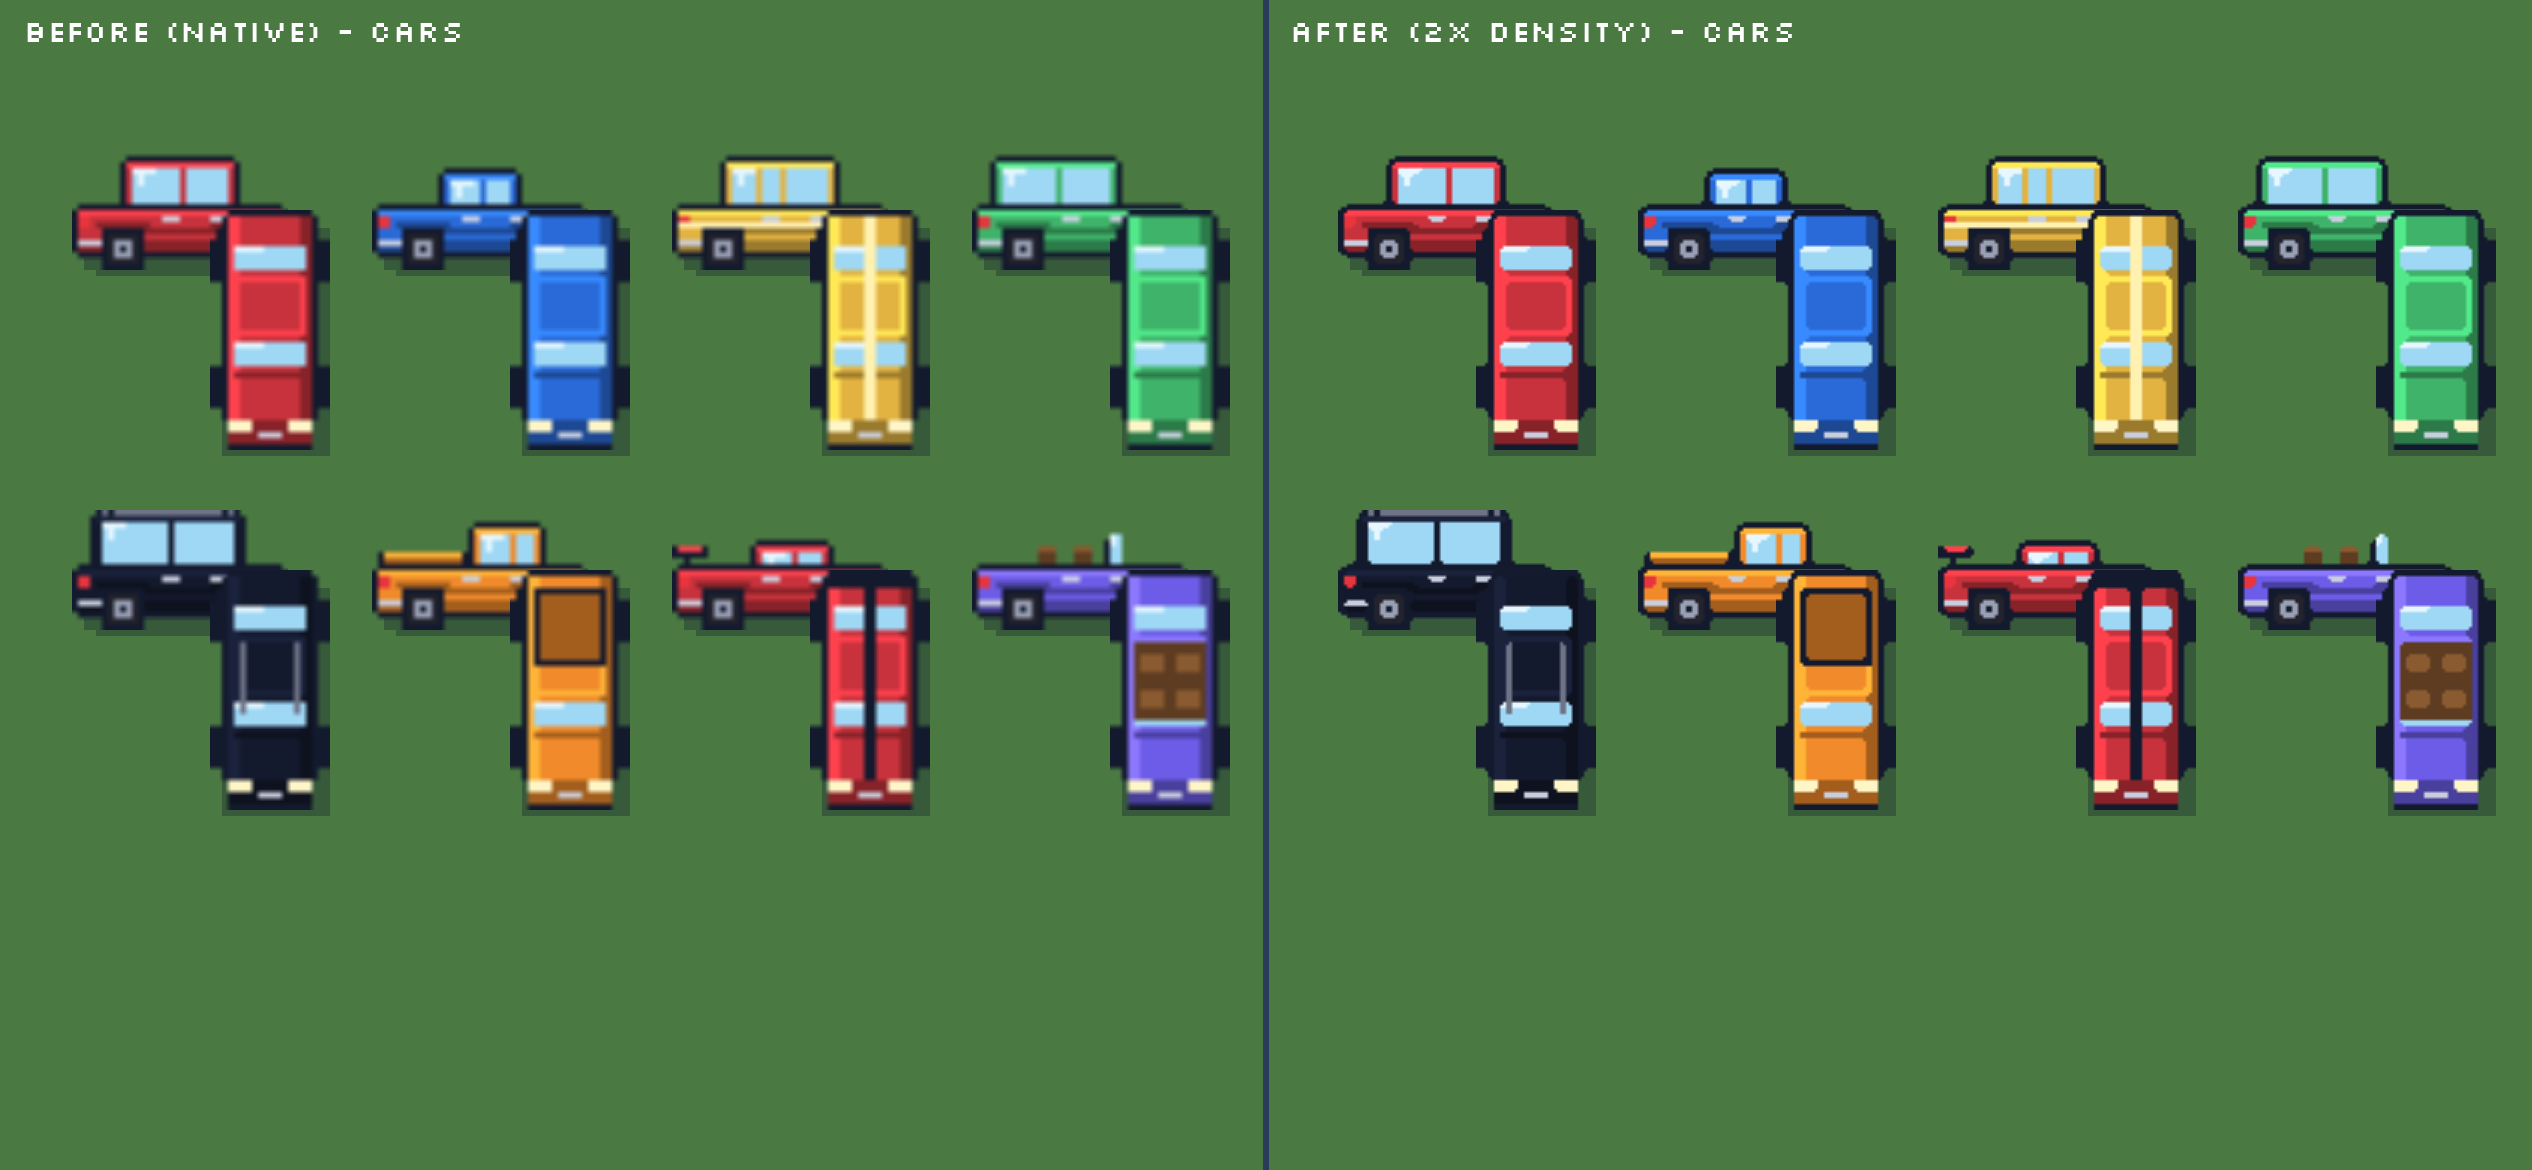
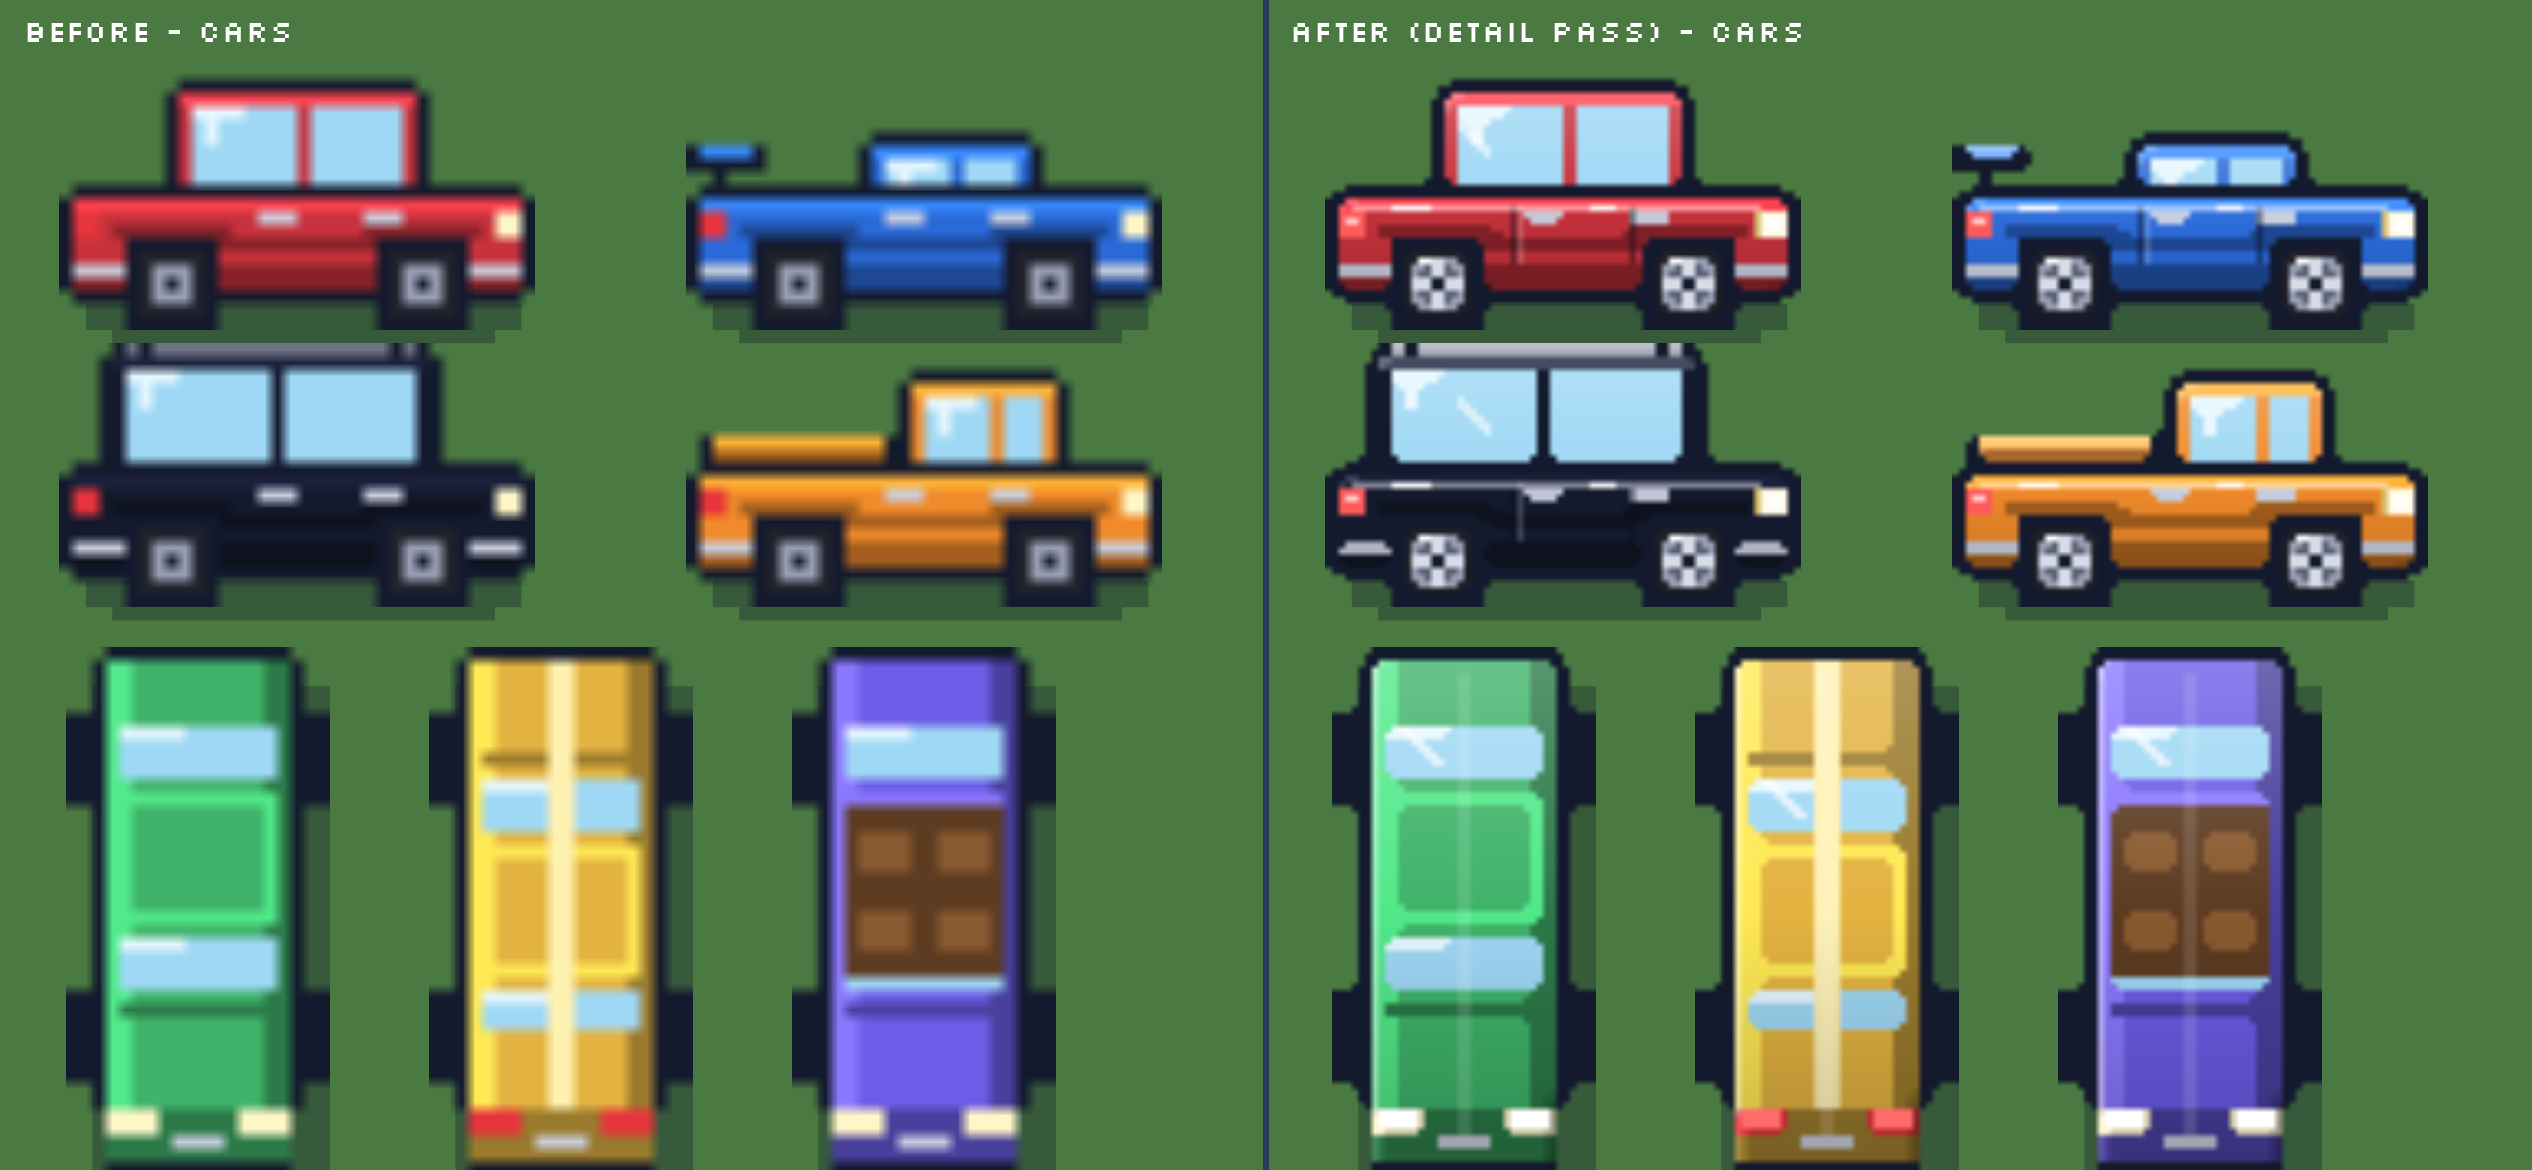
Detail pass (3/4): 8 car models x 3 views - gloss shading, door seams, spoked chrome rims, lit lamp lenses, specular + glass streaks; 6 glow underlights get a radial underglow pool + neon strip

diff --git a/src/cars.js b/src/cars.js
@@ -2,6 +2,27 @@
 // Views: 'side' (east/west travel, flipped for west), 'front' (driving toward camera = south), 'back' (driving away = north).
 import { TILE, ROADS, AVENUE } from './world.js';
 import { hires } from './hires.js';
+import { shadeSprite } from './detail.js';
+// Detail pass at 2x (coords below are hi-res px = 2 x native): gloss shading, door panel seams, spoked chrome rims,
+// lit head/tail lamp lenses, chrome specular, glass reflections. Same palette family; cached with the sprite.
+function carDetail(cv, view, kind) { if (globalThis.__noDetail || !cv.k) return cv;
+  shadeSprite(cv, { r: 2, light: 0.32, dark: 0.22, grad: 0.22, skipInk: 30 }); const c = cv.getContext('2d'), Q = (x, y, w, h, col) => { c.fillStyle = col; c.fillRect(x, y, w, h); };
+  c.save(); c.globalCompositeOperation = 'source-atop';
+  if (view === 'side') {
+    if (kind !== 'pickup') { Q(28, 21, 1, 9, 'rgba(10,14,30,.45)'); Q(46, 21, 1, 9, 'rgba(10,14,30,.45)'); Q(29, 21, 1, 9, 'rgba(255,255,255,.18)'); } // door seams
+    Q(4, 21, 62, 1, 'rgba(255,255,255,.45)'); Q(10, 21, 6, 1, 'rgba(255,255,255,.9)'); Q(40, 21, 4, 1, 'rgba(255,255,255,.85)'); // gloss specular
+    Q(66, 22, 4, 4, '#fffbe8'); Q(67, 23, 2, 2, '#ffffff'); Q(65, 22, 1, 4, '#d8c070'); // headlamp lens
+    Q(2, 22, 4, 4, '#ff5a5a'); Q(3, 23, 2, 1, '#ffd0d0'); // tail lens
+    for (const wx of [5, 24]) { const cx = 2 * wx + 7, cy = 33; // spoked rims
+      Q(cx - 4, cy - 4, 8, 8, '#22232c'); Q(cx - 3, cy - 4, 6, 8, '#9aa0b4'); Q(cx - 4, cy - 3, 8, 6, '#9aa0b4'); Q(cx - 2, cy - 3, 4, 6, '#5a6074'); Q(cx - 3, cy - 2, 6, 4, '#5a6074');
+      Q(cx - 1, cy - 4, 2, 8, '#d8dce8'); Q(cx - 4, cy - 1, 8, 2, '#d8dce8'); Q(cx - 1, cy - 1, 2, 2, '#141a2e'); Q(cx - 3, cy - 4, 2, 1, '#ffffff'); }
+    c.globalAlpha = 0.6; c.fillStyle = '#ffffff'; for (let i = 0; i < 5; i++) c.fillRect(20 + i, 8 + i, 1, 2); c.globalAlpha = 1; // glass streak
+  } else {
+    Q(19, 4, 2, 70, 'rgba(255,255,255,.12)'); Q(6, 3, 1, 68, 'rgba(255,255,255,.4)'); // centre line + side gloss
+    c.globalAlpha = 0.7; c.fillStyle = '#ffffff'; for (let i = 0; i < 6; i++) c.fillRect(10 + i, (view === 'front' ? 12 : 20) + i, 2, 1); c.globalAlpha = 1;
+    const ly = 70; if (view === 'front') { Q(7, ly, 6, 3, '#ffffff'); Q(27, ly, 6, 3, '#ffffff'); } else { Q(7, ly, 6, 3, '#ff6a6a'); Q(27, ly, 6, 3, '#ff6a6a'); }
+  }
+  c.restore(); return cv; }
 export const CAR_LEN = 72, CAR_W = 40, U = 2, LANE = 48; // world px; U = one native pixel
 export const LANES = { // 3-tile roads = two 48px lanes, right-hand traffic
   rows: ROADS, avenue: AVENUE, // horizontal roads occupy rows r..r+2; avenue occupies cols 31-33
@@ -54,7 +75,7 @@ function top(col, kind, view) { // 20 x 40 native (16 body + wheel nubs), front 
   return cv;
 }
 export function carSprite(col, view = 'side', kind = 'sedan') {
-  const k = col + view + kind; let s = cache.get(k); if (!s) { s = hires(view === 'side' ? side(col, kind) : top(col, kind, view)); cache.set(k, s); } return s;
+  const k = col + view + kind; let s = cache.get(k); if (!s) { s = carDetail(hires(view === 'side' ? side(col, kind) : top(col, kind, view)), view, kind); cache.set(k, s); } return s;
 }
 // Draw a car whose ground contact is (x, base): x = centre, base = bottom of wheels (side) / bottom of bumper (front/back).
 export function drawCar(c, x, base, { col = '#c8323c', dir = 'east', kind = 'sedan', alpha = 1, glow = null } = {}) {
@@ -64,6 +85,9 @@ export function drawCar(c, x, base, { col = '#c8323c', dir = 'east', kind = 'sed
   if (view === 'side') { c.fillRect(X + 4, Math.round(base) - 4, w - 6, 4); c.fillRect(X + 8, Math.round(base), w - 14, 2); }
   else { c.fillRect(X + 4, Y + 6, w - 4, h - 4); }
   if (dir === 'west') { c.translate(X + w, Y); c.scale(-1, 1); c.drawImage(spr, 0, 0, w, h); } else c.drawImage(spr, X, Y, w, h);
-  if (glow) { c.globalAlpha = 0.45; c.fillStyle = glow; c.fillRect(X - 4, Math.round(base) - 6, w + 8, 8); c.fillRect(X + 4, Y - 4, w - 8, 4); c.globalAlpha = 1; }
+  if (glow && globalThis.__noDetail) { c.globalAlpha = 0.45; c.fillStyle = glow; c.fillRect(X - 4, Math.round(base) - 6, w + 8, 8); c.fillRect(X + 4, Y - 4, w - 8, 4); c.globalAlpha = 1; }
+  else if (glow) { c.save(); c.globalCompositeOperation = 'lighter'; const gx = X + w / 2, gy = Math.round(base) - 2, g = c.createRadialGradient(gx, gy, 2, gx, gy, w * 0.62);
+    g.addColorStop(0, glow); g.addColorStop(0.5, glow + '66'); g.addColorStop(1, glow + '00'); c.globalAlpha = 0.75; c.fillStyle = g; c.beginPath(); c.ellipse(gx, gy, w * 0.62, 9, 0, 0, 7); c.fill(); // underglow pool
+    c.globalAlpha = 0.9; c.fillStyle = glow; c.fillRect(X + 6, Math.round(base) - 3, w - 12, 1); c.fillStyle = '#ffffff'; c.globalAlpha = 0.6; c.fillRect(X + 10, Math.round(base) - 3, w - 20, 1); c.restore(); } // neon strip + hot core
   c.restore();
 }
